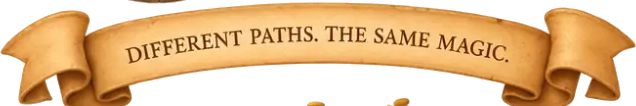
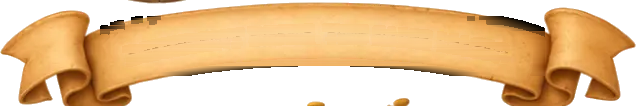
Retitle the map ribbon: Welcome to Garima's Hogwarts
The old wording is painted out of the ribbon art and the new text is live.

diff --git a/spec-lab.html b/spec-lab.html
@@ -12,8 +12,8 @@
 <script>try{if(localStorage.getItem('ma-theme')==='night')document.documentElement.setAttribute('data-theme','night')}catch(e){}</script>
 <link rel="preconnect" href="https://fonts.googleapis.com"><link rel="preconnect" href="https://fonts.gstatic.com" crossorigin>
 <link rel="stylesheet" href="https://fonts.googleapis.com/css2?family=Caveat:wght@400;600&family=Hanken+Grotesk:wght@400;500;600;700&family=Cinzel:wght@600;700&family=Cinzel+Decorative:wght@700&family=Cormorant+Garamond:ital,wght@0,500;0,600;0,700;1,500&family=IM+Fell+English&display=swap">
-<link rel="stylesheet" href="assets/css/academy.css?v=25"><link rel="stylesheet" href="assets/css/sections.css?v=25"><link rel="stylesheet" href="assets/css/speclab.css?v=25">
-<script src="assets/js/core.js?v=25" defer></script><script src="assets/js/home.js?v=25" defer></script><script src="assets/js/speclab.js?v=25" defer></script>
+<link rel="stylesheet" href="assets/css/academy.css?v=27"><link rel="stylesheet" href="assets/css/sections.css?v=27"><link rel="stylesheet" href="assets/css/speclab.css?v=27">
+<script src="assets/js/core.js?v=27" defer></script><script src="assets/js/home.js?v=27" defer></script><script src="assets/js/speclab.js?v=27" defer></script>
 </head>
 <body data-page="lab">
 <a class="skip" href="#main">Skip to content</a>

diff --git a/experience.html b/experience.html
@@ -12,8 +12,8 @@
 <script>try{if(localStorage.getItem('ma-theme')==='night')document.documentElement.setAttribute('data-theme','night')}catch(e){}</script>
 <link rel="preconnect" href="https://fonts.googleapis.com"><link rel="preconnect" href="https://fonts.gstatic.com" crossorigin>
 <link rel="stylesheet" href="https://fonts.googleapis.com/css2?family=Caveat:wght@400;600&family=Hanken+Grotesk:wght@400;500;600;700&family=Cinzel:wght@600;700&family=Cinzel+Decorative:wght@700&family=Cormorant+Garamond:ital,wght@0,500;0,600;0,700;1,500&family=IM+Fell+English&display=swap">
-<link rel="stylesheet" href="assets/css/academy.css?v=25"><link rel="stylesheet" href="assets/css/sections.css?v=25"><link rel="stylesheet" href="assets/css/speclab.css?v=25">
-<script src="assets/js/core.js?v=25" defer></script><script src="assets/js/home.js?v=25" defer></script>
+<link rel="stylesheet" href="assets/css/academy.css?v=27"><link rel="stylesheet" href="assets/css/sections.css?v=27"><link rel="stylesheet" href="assets/css/speclab.css?v=27">
+<script src="assets/js/core.js?v=27" defer></script><script src="assets/js/home.js?v=27" defer></script>
 </head>
 <body data-page="experience">
 <a class="skip" href="#main">Skip to content</a>

diff --git a/projects.html b/projects.html
@@ -12,8 +12,8 @@
 <script>try{if(localStorage.getItem('ma-theme')==='night')document.documentElement.setAttribute('data-theme','night')}catch(e){}</script>
 <link rel="preconnect" href="https://fonts.googleapis.com"><link rel="preconnect" href="https://fonts.gstatic.com" crossorigin>
 <link rel="stylesheet" href="https://fonts.googleapis.com/css2?family=Caveat:wght@400;600&family=Hanken+Grotesk:wght@400;500;600;700&family=Cinzel:wght@600;700&family=Cinzel+Decorative:wght@700&family=Cormorant+Garamond:ital,wght@0,500;0,600;0,700;1,500&family=IM+Fell+English&display=swap">
-<link rel="stylesheet" href="assets/css/academy.css?v=25"><link rel="stylesheet" href="assets/css/sections.css?v=25"><link rel="stylesheet" href="assets/css/speclab.css?v=25">
-<script src="assets/js/core.js?v=25" defer></script><script src="assets/js/home.js?v=25" defer></script>
+<link rel="stylesheet" href="assets/css/academy.css?v=27"><link rel="stylesheet" href="assets/css/sections.css?v=27"><link rel="stylesheet" href="assets/css/speclab.css?v=27">
+<script src="assets/js/core.js?v=27" defer></script><script src="assets/js/home.js?v=27" defer></script>
 </head>
 <body data-page="projects">
 <a class="skip" href="#main">Skip to content</a>

diff --git a/contact.html b/contact.html
@@ -12,8 +12,8 @@
 <script>try{if(localStorage.getItem('ma-theme')==='night')document.documentElement.setAttribute('data-theme','night')}catch(e){}</script>
 <link rel="preconnect" href="https://fonts.googleapis.com"><link rel="preconnect" href="https://fonts.gstatic.com" crossorigin>
 <link rel="stylesheet" href="https://fonts.googleapis.com/css2?family=Caveat:wght@400;600&family=Hanken+Grotesk:wght@400;500;600;700&family=Cinzel:wght@600;700&family=Cinzel+Decorative:wght@700&family=Cormorant+Garamond:ital,wght@0,500;0,600;0,700;1,500&family=IM+Fell+English&display=swap">
-<link rel="stylesheet" href="assets/css/academy.css?v=25"><link rel="stylesheet" href="assets/css/sections.css?v=25"><link rel="stylesheet" href="assets/css/speclab.css?v=25">
-<script src="assets/js/core.js?v=25" defer></script><script src="assets/js/home.js?v=25" defer></script>
+<link rel="stylesheet" href="assets/css/academy.css?v=27"><link rel="stylesheet" href="assets/css/sections.css?v=27"><link rel="stylesheet" href="assets/css/speclab.css?v=27">
+<script src="assets/js/core.js?v=27" defer></script><script src="assets/js/home.js?v=27" defer></script>
 </head>
 <body data-page="contact">
 <a class="skip" href="#main">Skip to content</a>

diff --git a/common-room.html b/common-room.html
@@ -12,8 +12,8 @@
 <script>try{if(localStorage.getItem('ma-theme')==='night')document.documentElement.setAttribute('data-theme','night')}catch(e){}</script>
 <link rel="preconnect" href="https://fonts.googleapis.com"><link rel="preconnect" href="https://fonts.gstatic.com" crossorigin>
 <link rel="stylesheet" href="https://fonts.googleapis.com/css2?family=Caveat:wght@400;600&family=Hanken+Grotesk:wght@400;500;600;700&family=Cinzel:wght@600;700&family=Cinzel+Decorative:wght@700&family=Cormorant+Garamond:ital,wght@0,500;0,600;0,700;1,500&family=IM+Fell+English&display=swap">
-<link rel="stylesheet" href="assets/css/academy.css?v=25"><link rel="stylesheet" href="assets/css/sections.css?v=25"><link rel="stylesheet" href="assets/css/speclab.css?v=25">
-<script src="assets/js/core.js?v=25" defer></script><script src="assets/js/home.js?v=25" defer></script>
+<link rel="stylesheet" href="assets/css/academy.css?v=27"><link rel="stylesheet" href="assets/css/sections.css?v=27"><link rel="stylesheet" href="assets/css/speclab.css?v=27">
+<script src="assets/js/core.js?v=27" defer></script><script src="assets/js/home.js?v=27" defer></script>
 </head>
 <body data-page="common">
 <a class="skip" href="#main">Skip to content</a>

diff --git a/skills.html b/skills.html
@@ -12,8 +12,8 @@
 <script>try{if(localStorage.getItem('ma-theme')==='night')document.documentElement.setAttribute('data-theme','night')}catch(e){}</script>
 <link rel="preconnect" href="https://fonts.googleapis.com"><link rel="preconnect" href="https://fonts.gstatic.com" crossorigin>
 <link rel="stylesheet" href="https://fonts.googleapis.com/css2?family=Caveat:wght@400;600&family=Hanken+Grotesk:wght@400;500;600;700&family=Cinzel:wght@600;700&family=Cinzel+Decorative:wght@700&family=Cormorant+Garamond:ital,wght@0,500;0,600;0,700;1,500&family=IM+Fell+English&display=swap">
-<link rel="stylesheet" href="assets/css/academy.css?v=25"><link rel="stylesheet" href="assets/css/sections.css?v=25"><link rel="stylesheet" href="assets/css/speclab.css?v=25">
-<script src="assets/js/core.js?v=25" defer></script><script src="assets/js/home.js?v=25" defer></script>
+<link rel="stylesheet" href="assets/css/academy.css?v=27"><link rel="stylesheet" href="assets/css/sections.css?v=27"><link rel="stylesheet" href="assets/css/speclab.css?v=27">
+<script src="assets/js/core.js?v=27" defer></script><script src="assets/js/home.js?v=27" defer></script>
 </head>
 <body data-page="skills">
 <a class="skip" href="#main">Skip to content</a>

diff --git a/about.html b/about.html
@@ -12,8 +12,8 @@
 <script>try{if(localStorage.getItem('ma-theme')==='night')document.documentElement.setAttribute('data-theme','night')}catch(e){}</script>
 <link rel="preconnect" href="https://fonts.googleapis.com"><link rel="preconnect" href="https://fonts.gstatic.com" crossorigin>
 <link rel="stylesheet" href="https://fonts.googleapis.com/css2?family=Caveat:wght@400;600&family=Hanken+Grotesk:wght@400;500;600;700&family=Cinzel:wght@600;700&family=Cinzel+Decorative:wght@700&family=Cormorant+Garamond:ital,wght@0,500;0,600;0,700;1,500&family=IM+Fell+English&display=swap">
-<link rel="stylesheet" href="assets/css/academy.css?v=25"><link rel="stylesheet" href="assets/css/sections.css?v=25"><link rel="stylesheet" href="assets/css/speclab.css?v=25">
-<script src="assets/js/core.js?v=25" defer></script><script src="assets/js/home.js?v=25" defer></script>
+<link rel="stylesheet" href="assets/css/academy.css?v=27"><link rel="stylesheet" href="assets/css/sections.css?v=27"><link rel="stylesheet" href="assets/css/speclab.css?v=27">
+<script src="assets/js/core.js?v=27" defer></script><script src="assets/js/home.js?v=27" defer></script>
 </head>
 <body data-page="about">
 <a class="skip" href="#main">Skip to content</a>

diff --git a/assets/js/landing.js b/assets/js/landing.js
@@ -31,7 +31,7 @@
       var n = 0;
       world.innerHTML = L.map(function (e) {
         var l = places[e[4]], st = 'left:' + e[1] + '%;top:' + e[2] + '%;--s:' + e[3] + ';--d:-' + (e[1] % 5) + 's';
-        if (!l) return '<span class="el ' + e[4] + '" style="' + st + '"><img src="' + A + e[0] + '.png" alt=""></span>';
+        if (!l) return '<span class="el ' + e[4] + '" style="' + st + '"><img src="' + A + e[0] + '.png" alt="">' + (e[0] === 'banner' ? '<svg class="bantext" viewBox="0 0 636 106" role="img" aria-label="Welcome to Garima\'s Hogwarts"><path id="banpath" d="M112 56Q318 34 532 54" fill="none"/><text text-anchor="middle"><textPath href="#banpath" startOffset="50%">WELCOME TO GARIMA\'S HOGWARTS</textPath></text></svg>' : '') + '</span>';
         var sign = e[0] === 'arch' ? '<span class="scrollsign"><b>' + esc(l.name) + '</b><i>' + esc(l.label) + '</i></span>' : '';
         return '<a class="el place" href="' + esc(l.href) + '" data-id="' + l.id + '" style="' + st + ';--i:' + (n++) + '" aria-label="' + esc(l.name + ': ' + l.label) + '"><img src="' + A + e[0] + '.png" alt="">' + sign + '</a>';
       }).join('');

diff --git a/case.html b/case.html
@@ -12,8 +12,8 @@
 <script>try{if(localStorage.getItem('ma-theme')==='night')document.documentElement.setAttribute('data-theme','night')}catch(e){}</script>
 <link rel="preconnect" href="https://fonts.googleapis.com"><link rel="preconnect" href="https://fonts.gstatic.com" crossorigin>
 <link rel="stylesheet" href="https://fonts.googleapis.com/css2?family=Caveat:wght@400;600&family=Hanken+Grotesk:wght@400;500;600;700&family=Cinzel:wght@600;700&family=Cinzel+Decorative:wght@700&family=Cormorant+Garamond:ital,wght@0,500;0,600;0,700;1,500&family=IM+Fell+English&display=swap">
-<link rel="stylesheet" href="assets/css/academy.css?v=25"><link rel="stylesheet" href="assets/css/sections.css?v=25">
-<script src="assets/js/core.js?v=25" defer></script><script src="assets/js/case.js?v=25" defer></script>
+<link rel="stylesheet" href="assets/css/academy.css?v=27"><link rel="stylesheet" href="assets/css/sections.css?v=27">
+<script src="assets/js/core.js?v=27" defer></script><script src="assets/js/case.js?v=27" defer></script>
 </head>
 <body data-page="case">
 <a class="skip" href="#main">Skip to content</a>

diff --git a/index.html b/index.html
@@ -14,8 +14,8 @@
 setTimeout(function(){if(!window.MA)document.documentElement.classList.remove('door-on')},5000)</script>
 <link rel="preconnect" href="https://fonts.googleapis.com"><link rel="preconnect" href="https://fonts.gstatic.com" crossorigin>
 <link rel="stylesheet" href="https://fonts.googleapis.com/css2?family=Caveat:wght@400;600&family=Hanken+Grotesk:wght@400;500;600;700&family=Cinzel:wght@600;700&family=Cinzel+Decorative:wght@700&family=Cormorant+Garamond:ital,wght@0,500;0,600;0,700;1,500&family=IM+Fell+English&display=swap">
-<link rel="stylesheet" href="assets/css/academy.css?v=25"><link rel="stylesheet" href="assets/css/landing.css?v=25">
-<script src="assets/js/core.js?v=25" defer></script><script src="assets/js/landing.js?v=25" defer></script>
+<link rel="stylesheet" href="assets/css/academy.css?v=27"><link rel="stylesheet" href="assets/css/landing.css?v=27">
+<script src="assets/js/core.js?v=27" defer></script><script src="assets/js/landing.js?v=27" defer></script>
 </head>
 <body data-page="home">
 <header class="nav" id="top">

diff --git a/404.html b/404.html
@@ -12,8 +12,8 @@
 <script>try{if(localStorage.getItem('ma-theme')==='night')document.documentElement.setAttribute('data-theme','night')}catch(e){}</script>
 <link rel="preconnect" href="https://fonts.googleapis.com"><link rel="preconnect" href="https://fonts.gstatic.com" crossorigin>
 <link rel="stylesheet" href="https://fonts.googleapis.com/css2?family=Caveat:wght@400;600&family=Hanken+Grotesk:wght@400;500;600;700&family=Cinzel:wght@600;700&family=Cinzel+Decorative:wght@700&family=Cormorant+Garamond:ital,wght@0,500;0,600;0,700;1,500&family=IM+Fell+English&display=swap">
-<link rel="stylesheet" href="assets/css/academy.css?v=25"><link rel="stylesheet" href="assets/css/sections.css?v=25">
-<script src="assets/js/core.js?v=25" defer></script>
+<link rel="stylesheet" href="assets/css/academy.css?v=27"><link rel="stylesheet" href="assets/css/sections.css?v=27">
+<script src="assets/js/core.js?v=27" defer></script>
 </head>
 <body data-page="lost">
 <a class="skip" href="#main">Skip to content</a>

diff --git a/assets/css/landing.css b/assets/css/landing.css
@@ -91,3 +91,7 @@ html.door-on .door{display:flex}
 
 /* browsers with aspect-ratio size the book and the tall-screen map from their height alone */
 @supports (aspect-ratio:1){.book{width:auto}@media (max-aspect-ratio:1/1){.worldstage .artmap{width:auto}}}
+
+/* live text on the ribbon (the ribbon art itself is blank) */
+.bantext{position:absolute;top:0;left:0;width:100%;height:100%;overflow:visible}
+.bantext text{font:700 19px 'Cinzel',var(--serif);letter-spacing:.04em;fill:#5A3416;paint-order:stroke;stroke:rgba(255,240,205,.45);stroke-width:.6px}
